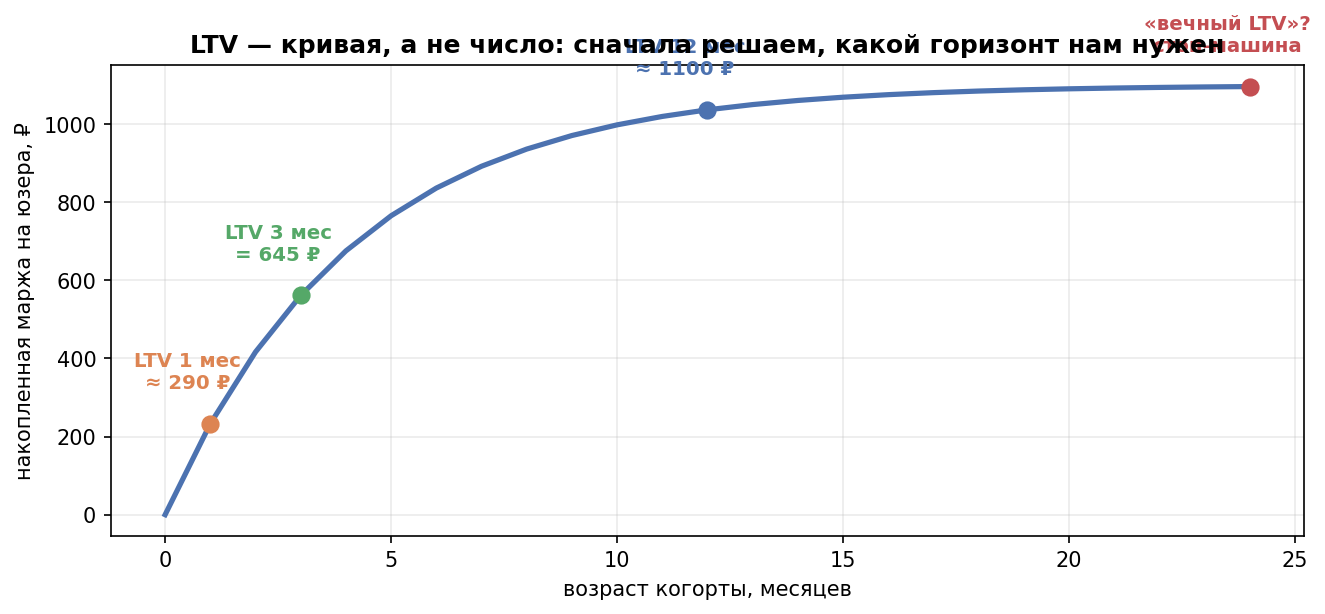
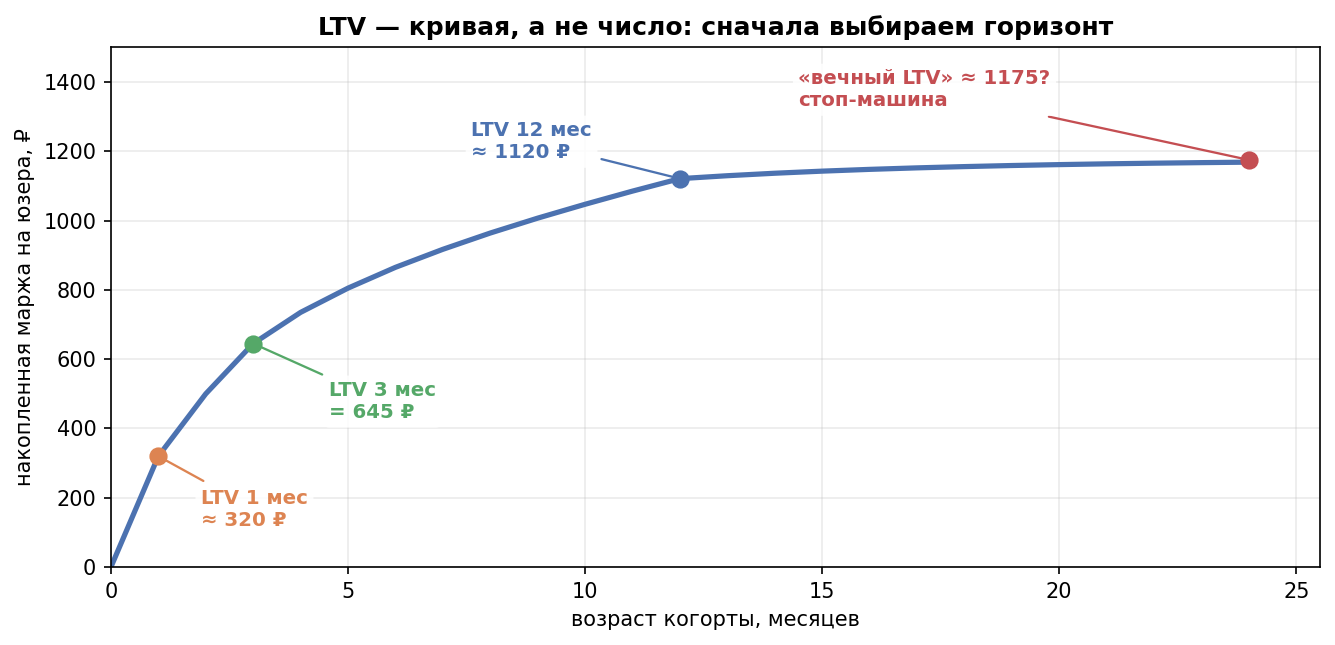
LTV-визуализации v2: устранены наложения текстов (белые плашки, выноски, явные лимиты), лестница методов перевёрнута правильно; формулы в рассказе вынесены в отдельные math-блоки

diff --git a/Драфт/маркетинговая-аналитика/course/modules/M2/make_ltv_story_visuals.py b/Драфт/маркетинговая-аналитика/course/modules/M2/make_ltv_story_visuals.py
@@ -3,6 +3,11 @@
 
 Запуск: python3 course/modules/M2/make_ltv_story_visuals.py → images/ltv_story_*.png
 Стиль курса: заголовок = вывод; числа согласованы с рассказом.
+
+Канон чисел (одинаков во всех картинках и в рассказе):
+  маржа когорты по мес, тыс ₽: 320,180,145,90,70,60,52,47,43,40,38,36 (когорта 1000 чел)
+  LTV(N), ₽/юзер: 320,500,645,735,805,865,917,964,1007,1047,1085,1121
+  «вечный» хвост к 24 мес ≈ 1175; прогноз бутстрапом 12 мес = 1080 ± 90
 """
 from __future__ import annotations
 import matplotlib
@@ -22,79 +27,97 @@ plt.rcParams.update({
 })
 C_MAIN, C_ACC, C_TRUE, C_BAD = "#4C72B0", "#DD8452", "#55A868", "#C44E52"
 
+# белая плашка под любой подписью, лежащей поверх сетки/кривых
+BB = dict(boxstyle="round,pad=0.28", fc="white", ec="none", alpha=0.88)
+
 def save(fig, name):
     fig.savefig(OUT / name, bbox_inches="tight")
     print("ok", name)
 
+# --- канонические числа рассказа -------------------------------------------
+profit_m = np.array([320, 180, 145, 90, 70, 60, 52, 47, 43, 40, 38, 36])  # тыс ₽ маржи когорты
+N_COHORT = 1000
+ltv_cum = np.cumsum(profit_m) / N_COHORT * 1000          # ₽/юзер: 320..1121
+ltv_m = np.concatenate([[0], ltv_cum,
+                        ltv_cum[-1] + 55 * (1 - np.exp(-np.arange(1, 13) / 6))])
+months = np.arange(0, 25)                                # мес 0..24, «вечный» хвост ≈ 1175
+
 # ============================================================
 # 1. Маржа, а не выручка (кейс Dropbox)
 # ============================================================
-fig, axes = plt.subplots(1, 2, figsize=(10, 4))
+fig, axes = plt.subplots(1, 2, figsize=(11, 4.2))
 a = axes[0]
 a.bar(["Выручка", "Переменные\nзатраты", "Валовая\nмаржа"], [100, 67, 33],
       color=[C_MAIN, C_BAD, C_TRUE], width=0.62)
 for i, v in enumerate([100, 67, 33]):
-    a.text(i, v + 2, f"{v}%", ha="center", fontweight="bold", fontsize=11)
-a.set_ylim(0, 112); a.set_ylabel("% от выручки")
-a.set_title("Dropbox, 2015: 67% выручки съедали переменные затраты")
+    a.text(i, v + 3, f"{v}%", ha="center", fontweight="bold", fontsize=11)
+a.set_ylim(0, 120); a.set_yticks(range(0, 101, 20)); a.set_ylabel("% от выручки")
+a.set_title("Dropbox, 2015: 67% выручки — переменные затраты")
 b = axes[1]
 b.bar(["Выручка", "Маржа 25%"], [1200, 300], color=[C_MAIN, C_TRUE], width=0.5)
 for i, v in enumerate([1200, 300]):
-    b.text(i, v + 25, f"{v} ₽", ha="center", fontweight="bold", fontsize=11)
-b.set_ylabel("₽ на заказ («ЕдаДома»)")
-b.set_title("LTV считают от маржи — выручка врёт в 4 раза")
+    b.text(i, v + 30, f"{v} ₽", ha="center", fontweight="bold", fontsize=11)
+b.set_ylim(0, 1400); b.set_yticks(range(0, 1401, 200)); b.set_ylabel("₽ на заказ («ЕдаДома»)")
+b.set_title("Наш пример: маржа 25% — LTV считают от неё")
 fig.tight_layout(); save(fig, "ltv_story_01_margin.png")
 
 # ============================================================
 # 2. LTV — кривая, а не число
 # ============================================================
-months = np.arange(0, 25)
-ltv = 1100 * (1 - np.exp(-months / 4.2))
-fig, ax = plt.subplots(figsize=(9, 4.2))
-ax.plot(months, ltv, lw=2.5, color=C_MAIN)
-for m, label, c in [(1, "LTV 1 мес\n≈ 290 ₽", C_ACC), (3, "LTV 3 мес\n= 645 ₽", C_TRUE),
-                    (12, "LTV 12 мес\n≈ 1100 ₽", C_MAIN), (24, "«вечный LTV»?\nстоп-машина", C_BAD)]:
-    ax.scatter([m], [ltv[m]], s=60, color=c, zorder=5)
-    ax.annotate(label, (m, ltv[m]), xytext=(m - 0.5, ltv[m] + 90), fontsize=9.5,
-                color=c, fontweight="bold", ha="center")
+fig, ax = plt.subplots(figsize=(9, 4.4))
+ax.plot(months, ltv_m, lw=2.5, color=C_MAIN)
+pts = [(1, 320, "LTV 1 мес\n≈ 320 ₽", C_ACC, (1.9, 120)),
+       (3, 645, "LTV 3 мес\n= 645 ₽", C_TRUE, (4.6, 430)),
+       (12, 1121, "LTV 12 мес\n≈ 1120 ₽", C_MAIN, (7.6, 1180)),
+       (24, 1175, "«вечный LTV» ≈ 1175?\nстоп-машина", C_BAD, (14.5, 1330))]
+for m, v, label, c, (tx, ty) in pts:
+    ax.scatter([m], [v], s=60, color=c, zorder=5)
+    ax.annotate(label, xy=(m, v), xytext=(tx, ty), fontsize=9.5, color=c,
+                fontweight="bold", ha="left", bbox=BB,
+                arrowprops=dict(arrowstyle="-", color=c, lw=1.1, shrinkB=4))
+ax.set_xlim(0, 25.5); ax.set_ylim(0, 1500)
 ax.set_xlabel("возраст когорты, месяцев"); ax.set_ylabel("накопленная маржа на юзера, ₽")
-ax.set_title("LTV — кривая, а не число: сначала решаем, какой горизонт нам нужен")
+ax.set_title("LTV — кривая, а не число: сначала выбираем горизонт")
 fig.tight_layout(); save(fig, "ltv_story_02_curve.png")
 
 # ============================================================
 # 3. Почему lifetime — «мифический»
 # ============================================================
-fig, axes = plt.subplots(1, 2, figsize=(10.5, 4))
+fig, axes = plt.subplots(1, 2, figsize=(11, 4.2))
 a = axes[0]
 m = np.arange(0, 13)
 ret = 0.42 * np.exp(-m / 1.8) + 0.22
 a.plot(m, ret * 100, lw=2.5, color=C_MAIN)
 a.fill_between(m, ret * 100, alpha=0.15, color=C_MAIN)
 a.axvline(6, color=C_BAD, ls="--", lw=1.6)
-a.text(6.2, 34, "где резать\nплощадь?", color=C_BAD, fontsize=10, fontweight="bold")
+a.text(5.6, 41, "где резать\nплощадь?", color=C_BAD, fontsize=10,
+       fontweight="bold", ha="right", bbox=BB)
+a.set_xlim(0, 12.6); a.set_ylim(0, 70)
 a.set_xlabel("месяц жизни"); a.set_ylabel("retention, %")
-a.set_title("Площадь под retention: у кривой плато — где её кончать?")
+a.set_title("Площадь под retention: где обрывать кривую?")
 b = axes[1]
 ages = ["1-й мес", "3-й мес", "6-й мес", "12-й мес"]
 churn = [35, 22, 12, 5]
 b.bar(ages, churn, color=[C_BAD, C_ACC, C_MAIN, C_TRUE], width=0.6)
 for i, v in enumerate(churn):
-    b.text(i, v + 1, f"{v}%", ha="center", fontweight="bold")
-b.set_ylabel("churn, % в месяц")
-b.set_title("Churn зависит от возраста: 1/churn по «среднему» — мусор на входе")
+    b.text(i, v + 1.2, f"{v}%", ha="center", fontweight="bold")
+b.set_ylim(0, 42); b.set_ylabel("churn, % в месяц")
+b.set_title("Churn зависит от возраста: «средний» — мусор")
 fig.tight_layout(); save(fig, "ltv_story_03_lifetime.png")
 
 # ============================================================
 # 4. Исторический vs когортный
 # ============================================================
-fig, ax = plt.subplots(figsize=(9, 4.4))
+fig, ax = plt.subplots(figsize=(9, 4.6))
 mm = np.arange(0, 13)
-ax.plot(mm, ltv[:13], lw=2.5, color=C_TRUE, label="когорта 12 мес назад (зрелая)")
-ax.plot(mm[:4], ltv[:4], lw=2.5, color=C_ACC, ls="--", label="когорта 3 мес назад (недозревшая)")
-ax.axhline(1400, color=C_BAD, ls=":", lw=2, label="«средний LTV по базе» = 1400 ₽ (старые клиенты)")
+ax.plot(mm, ltv_m[:13], lw=2.5, color=C_TRUE, label="когорта 12 мес назад (зрелая)")
+ax.plot(mm[:4], ltv_m[:4], lw=2.5, color=C_ACC, ls="--", label="когорта 3 мес назад (недозревшая)")
+ax.axhline(1400, color=C_BAD, ls=":", lw=2, label="«средний LTV по базе» = 1400 ₽")
 ax.scatter([3], [645], s=70, color=C_ACC, zorder=5)
-ax.annotate("факт молодого: 645 ₽", (3, 645), xytext=(4.2, 430), fontsize=10,
-            color=C_ACC, fontweight="bold")
+ax.annotate("факт молодого: 645 ₽", xy=(3, 645), xytext=(4.6, 380), fontsize=10,
+            color=C_ACC, fontweight="bold", bbox=BB,
+            arrowprops=dict(arrowstyle="-", color=C_ACC, lw=1.1, shrinkB=4))
+ax.set_xlim(0, 12.6); ax.set_ylim(0, 1750)
 ax.set_xlabel("возраст когорты, месяцев"); ax.set_ylabel("LTV (кумулятивно), ₽")
 ax.set_title("«Средняя по базе» — это вчерашние клиенты: сегодня другие")
 ax.legend(loc="lower right")
@@ -103,53 +126,63 @@ fig.tight_layout(); save(fig, "ltv_story_04_base_vs_cohort.png")
 # ============================================================
 # 5. Когортный метод за 4 шага
 # ============================================================
-fig, axes = plt.subplots(2, 2, figsize=(10.5, 6.4))
-profit_m = np.array([320, 180, 145, 90, 70, 60, 52, 47, 43, 40, 38, 36])  # тыс ₽ маржи когорты (LTV3=645, LTV12≈1120)
-n = 1000
+fig, axes = plt.subplots(2, 2, figsize=(11, 6.8))
+x12 = np.arange(1, 13)
 a = axes[0, 0]
-a.bar(np.arange(1, 13), profit_m, color=C_MAIN)
+a.bar(x12, profit_m, color=C_MAIN)
+a.set_xlim(0.4, 12.6); a.set_xticks(range(2, 13, 2))
+a.set_ylim(0, 350); a.set_yticks(range(0, 351, 50))
 a.set_title("Шаг 1–2. Валовая маржа когорты по месяцам")
 a.set_xlabel("месяц жизни"); a.set_ylabel("маржа, тыс ₽")
 b = axes[0, 1]
 cum = np.cumsum(profit_m)
-b.plot(np.arange(1, 13), cum, lw=2.5, color=C_MAIN)
-b.fill_between(np.arange(1, 13), cum, alpha=0.15, color=C_MAIN)
+b.plot(x12, cum, lw=2.5, color=C_MAIN)
+b.fill_between(x12, cum, alpha=0.15, color=C_MAIN)
+b.set_xlim(0.4, 12.6); b.set_xticks(range(2, 13, 2))
+b.set_ylim(0, 1250); b.set_yticks(range(0, 1201, 200))
 b.set_title("Шаг 3. Кумулятив: месяц N = сумма 0..N")
 b.set_xlabel("месяц жизни"); b.set_ylabel("Σ маржи, тыс ₽")
 c = axes[1, 0]
-c.plot(np.arange(1, 13), cum / n * 1000, lw=2.5, color=C_TRUE)
-c.scatter([3], [cum[2] / n * 1000], s=70, color=C_ACC, zorder=5)
-c.annotate(f"LTV3 = {cum[2]} ₽", xy=(3, cum[2]), xytext=(5.2, cum[2] - 220),
-           color=C_ACC, fontweight="bold", fontsize=10,
-           arrowprops=dict(arrowstyle="->", color=C_ACC, lw=1.5))
+c.plot(x12, cum / N_COHORT * 1000, lw=2.5, color=C_TRUE)
+c.scatter([3], [645], s=70, color=C_ACC, zorder=5)
+c.annotate("LTV3 = 645 ₽", xy=(3, 645), xytext=(5.4, 380),
+           color=C_ACC, fontweight="bold", fontsize=10, bbox=BB,
+           arrowprops=dict(arrowstyle="->", color=C_ACC, lw=1.5, shrinkB=4))
+c.set_xlim(0.4, 12.6); c.set_xticks(range(2, 13, 2))
+c.set_ylim(0, 1250); c.set_yticks(range(0, 1201, 200))
 c.set_title("Шаг 4. Делим на размер когорты → кривая LTV")
 c.set_xlabel("месяц жизни"); c.set_ylabel("LTV, ₽/юзер")
 d = axes[1, 1]
 d.axis("off")
 d.set_title("Правила чтения кривой")
-d.text(0.02, 0.72, "наклон = деньги сейчас", fontsize=12, color=C_MAIN, fontweight="bold")
-d.text(0.02, 0.5, "плато = «ядро» ценности", fontsize=12, color=C_TRUE, fontweight="bold")
-d.text(0.02, 0.28, "срезы по каналам — где польза", fontsize=12, color=C_ACC, fontweight="bold")
-d.text(0.02, 0.08, "цена метода: ждать горизонт", fontsize=12, color=C_BAD, fontweight="bold")
-fig.tight_layout(); save(fig, "ltv_story_05_cohort_steps.png")
+rules = [("наклон = деньги сейчас", C_MAIN, 0.74),
+         ("плато = «ядро» ценности", C_TRUE, 0.55),
+         ("срезы по каналам — где польза", C_ACC, 0.36),
+         ("цена метода: ждать горизонт", C_BAD, 0.17)]
+for text, color, y in rules:
+    d.text(0.03, y, text, fontsize=12, color=color, fontweight="bold", va="center")
+fig.tight_layout(h_pad=2.2); save(fig, "ltv_story_05_cohort_steps.png")
 
 # ============================================================
 # 6. Прогноз-эвристика: пороги
 # ============================================================
-fig, ax = plt.subplots(figsize=(9, 4.4))
+fig, ax = plt.subplots(figsize=(9, 4.6))
 days = np.arange(0, 31)
 def curve(a, b): return 380 * (1 - np.exp(-days / b)) * a
-for i, (mult, b, fate) in enumerate([(0.78, 5, "стоп"), (0.95, 6, "стоп"),
-                                     (1.08, 7, "оставить"), (1.25, 5, "масштабировать"),
-                                     (1.4, 6, "масштабировать")]):
+for mult, b, fate in [(0.78, 5, "стоп"), (0.95, 6, "стоп"),
+                      (1.08, 7, "оставить"), (1.25, 5, "масштабировать"),
+                      (1.4, 6, "масштабировать")]:
     y = curve(mult, b)
     color = C_BAD if fate == "стоп" else (C_TRUE if fate == "масштабировать" else C_MAIN)
     ax.plot(days, y, lw=2, color=color, alpha=0.9)
 ax.axhline(380, color="#333", ls="--", lw=2)
-ax.text(0.5, 400, "порог LTV30 = 380 ₽ (выучен по истории)", fontsize=10.5, fontweight="bold")
-ax.text(16, 300, "кампании ниже порога →\nвыключаем", color=C_BAD, fontsize=10, fontweight="bold")
-ax.text(16, 480, "на уровне или выше →\nоставляем / масштабируем", color=C_TRUE,
-        fontsize=10, fontweight="bold")
+ax.text(29.5, 400, "порог LTV30 = 380 ₽ (выучен по истории)", fontsize=10,
+        fontweight="bold", ha="right", bbox=BB)
+ax.text(8, 105, "кампании ниже порога →\nвыключаем", color=C_BAD, fontsize=10,
+        fontweight="bold", bbox=BB)
+ax.text(5.5, 560, "на уровне или выше →\nоставляем / масштабируем", color=C_TRUE,
+        fontsize=10, fontweight="bold", bbox=BB)
+ax.set_xlim(0, 30); ax.set_ylim(0, 680)
 ax.set_xlabel("дней с запуска кампании"); ax.set_ylabel("LTV кумулятивно, ₽")
 ax.set_title("Эвристика: не ждать год — сравнить с порогом на раннем горизонте")
 fig.tight_layout(); save(fig, "ltv_story_06_thresholds.png")
@@ -157,71 +190,70 @@ fig.tight_layout(); save(fig, "ltv_story_06_thresholds.png")
 # ============================================================
 # 7. Прогноз-модели: бутстрап-хвост и BG/NBD+GG
 # ============================================================
-fig, axes = plt.subplots(1, 2, figsize=(11, 4.4))
+fig, axes = plt.subplots(1, 2, figsize=(12.5, 4.6))
 a = axes[0]
 mm12 = np.arange(0, 13)
-fact = ltv[:4]
-ltv12 = ltv[:13]
-tails = []
-for k in range(200):
-    scale_k = rng.normal(1.0, 0.06)
-    tails.append(ltv12[3] + (ltv12[3:] - ltv12[3]) * scale_k)
-tails = np.array(tails)
+zrel = ltv_m[3:13] - ltv_m[3]                      # прирост зрелой кривой с 3 мес
+tails = np.array([ltv_m[3] + zrel * rng.normal(0.92, 0.115) for _ in range(400)])
 lo, hi = np.percentile(tails, [5, 95], axis=0)
-a.plot(mm12, ltv12, lw=2, color=C_TRUE, label="хвост по зрелым когортам (бутстрап)")
+a.plot(mm12, ltv_m[:13], lw=2, color=C_TRUE, label="хвост по зрелым когортам (бутстрап)")
 a.fill_between(mm12[3:], lo, hi, color=C_TRUE, alpha=0.2, label="90% интервал")
-a.plot(mm12[:4], fact, lw=3, color=C_MAIN, label="факт (3 мес)")
-a.scatter([12], [1080], s=80, color=C_ACC, zorder=5)
-a.annotate("прогноз 12 мес:\n1080 ± 90 ₽", (12, 1080), xytext=(7.6, 700),
-           color=C_ACC, fontweight="bold", fontsize=10)
+a.plot(mm12[:4], ltv_m[:4], lw=3, color=C_MAIN, label="факт (3 мес)")
+a.scatter([12], [1083], s=80, color=C_ACC, zorder=5)
+a.annotate("прогноз 12 мес:\n1080 ± 90 ₽", xy=(12, 1083), xytext=(6.2, 700),
+           color=C_ACC, fontweight="bold", fontsize=10, bbox=BB,
+           arrowprops=dict(arrowstyle="->", color=C_ACC, lw=1.4, shrinkB=5))
+a.set_xlim(0, 12.6); a.set_ylim(0, 1450)
 a.set_xlabel("месяц жизни"); a.set_ylabel("LTV, ₽")
 a.set_title("Бутстрап: недозревшую когорту достраиваем похожими")
 a.legend(loc="lower right", fontsize=9)
 b = axes[1]
 b.axis("off")
-b.set_title("BG/NBD + Gamma-Gamma: для «неконтрактных» (ушёл ≠ наблюдаем)")
+b.set_title("BG/NBD + Gamma-Gamma: неконтрактные продукты")
 boxes = [
-    (0.03, 0.62, "клиент: частота,\nдавность, возраст (F/R/T)", C_MAIN),
-    (0.36, 0.62, "BG/NBD:\nсколько ещё покупок", C_ACC),
+    (0.03, 0.62, "клиент: частота,\nдавность,\nвозраст (F/R/T)", C_MAIN),
+    (0.36, 0.62, "BG/NBD:\nсколько ещё\nпокупок", C_ACC),
     (0.03, 0.18, "чеки клиента", C_MAIN),
     (0.36, 0.18, "Gamma-Gamma:\nсредний чек", C_ACC),
-    (0.72, 0.40, "LTV на горизонт\n(× )", C_TRUE),
+    (0.72, 0.40, "LTV на горизонт\n(F × M)", C_TRUE),
 ]
 for x, y, t, c in boxes:
     b.add_patch(plt.Rectangle((x, y), 0.26, 0.22, fc=c, alpha=0.18, ec=c, lw=2))
     b.text(x + 0.13, y + 0.11, t, ha="center", va="center", fontsize=9.5, fontweight="bold")
 for (x1, y1), (x2, y2) in [((0.29, 0.73), (0.36, 0.73)), ((0.29, 0.29), (0.36, 0.29)),
-                           ((0.62, 0.73), (0.78, 0.62)), ((0.62, 0.29), (0.78, 0.40))]:
+                           ((0.62, 0.73), (0.78, 0.62)), ((0.62, 0.29), (0.78, 0.46))]:
     b.annotate("", xy=(x2, y2), xytext=(x1, y1),
                arrowprops=dict(arrowstyle="-|>", lw=2, color="#333"))
-b.text(0.5, 0.02, "лимит: предпосылки + валидация на когортах с известным фактом",
-        ha="center", fontsize=9.5, color=C_BAD, fontweight="bold")
+b.text(0.5, 0.04, "лимит: предпосылки + валидация на когортах с известным фактом",
+       ha="center", fontsize=9.5, color=C_BAD, fontweight="bold")
 fig.tight_layout(); save(fig, "ltv_story_07_models.png")
 
 # ============================================================
-# 8. Лестница методов
+# 8. Лесница методов
 # ============================================================
 fig, ax = plt.subplots(figsize=(10, 5))
 ax.axis("off")
 steps = [
-    ("5. Модель", "бутстрап / BG/NBD / ML", "невалидированная\nмодель", C_TRUE),
-    ("4. Эвристика", "пороги LTV7/LTV30", "порог из другой\nэпохи", "#8FBF9F"),
+    ("1. Салфетка", "ARPU × Lifetime", "цена ошибки: бюджеты на мусоре", "#B9C4D6"),
+    ("2. Исторический", "Σ фактов клиента", "LTV старых о новых", "#7C93B8"),
     ("3. Когортный факт", "кумулятив маржи / размер", "ждать горизонт", C_MAIN),
-    ("2. Исторический", "Σ фактов клиента", "LTV старых\nо новых", "#7C93B8"),
-    ("1. Салфетка", "ARPU × Lifetime", "бюджеты на мусоре", "#B9C4D6"),
+    ("4. Эвристика", "пороги LTV7/LTV30", "порог из другой эпохи", "#8FBF9F"),
+    ("5. Модель", "бутстрап, BG/NBD, ML", "невалидированная модель", C_TRUE),
 ]
+right_edges = []
 for i, (name, how, cost, c) in enumerate(steps):
-    y = 0.06 + i * 0.18
-    w = 0.24 + i * 0.135
+    y = 0.07 + i * 0.18
+    w = 0.78 - i * 0.12          # пирамида: внизу широкая «салфетка», наверху узкая «модель»
+    right_edges.append(0.04 + w)
     ax.add_patch(plt.Rectangle((0.04, y), w, 0.15, fc=c, alpha=0.85, ec="white", lw=2))
     ax.text(0.07, y + 0.095, name, fontsize=13, fontweight="bold", color="white", va="center")
     ax.text(0.07, y + 0.038, how, fontsize=9.5, color="white", va="center")
-    ax.text(0.06 + w + 0.02, y + 0.075, f"цена ошибки: {cost}", fontsize=9.5,
-            color="#333", va="center")
-ax.annotate("", xy=(0.86, 0.95), xytext=(0.5, 0.5),
+    ax.text(0.06 + w + 0.02, y + 0.075, cost, fontsize=9.5, color="#333", va="center")
+# стрелка «выше — точнее»: вертикально справа от пирамиды, мимо всех ступеней
+ax.annotate("", xy=(0.92, 0.90), xytext=(0.92, 0.20),
             arrowprops=dict(arrowstyle="-|>", lw=2.5, color=C_ACC))
-ax.text(0.64, 0.86, "точность ↑ · сложность ↑ · терпение ↓", rotation=0, fontsize=10.5,
-        color=C_ACC, fontweight="bold")
+ax.text(0.92, 0.965, "точность ↑ · сложность ↑ · терпение ↓", fontsize=10.5,
+        color=C_ACC, fontweight="bold", ha="center")
 ax.set_xlim(0, 1.05); ax.set_ylim(0, 1.02)
 ax.set_title("Лестница методов LTV: чем выше — тем точнее и дороже")
 fig.tight_layout(); save(fig, "ltv_story_08_ladder.png")
@@ -229,17 +261,17 @@ fig.tight_layout(); save(fig, "ltv_story_08_ladder.png")
 # ============================================================
 # 9. Три вопроса к любому числу LTV
 # ============================================================
-fig, ax = plt.subplots(figsize=(10, 3.6))
+fig, ax = plt.subplots(figsize=(10, 3.8))
 ax.axis("off")
-qs = [("«От маржи или от выручки?»", C_TRUE),
-      ("«Какой горизонт и какие когорты?»", C_MAIN),
-      ("«Факт или прогноз? Как валидирован?»", C_ACC)]
+qs = [("«От маржи\nили от выручки?»", C_TRUE),
+      ("«Какой горизонт\nи какие когорты?»", C_MAIN),
+      ("«Факт или прогноз?\nКак валидирован?»", C_ACC)]
 for i, (q, c) in enumerate(qs):
     x = 0.02 + i * 0.33
-    ax.add_patch(plt.Rectangle((x, 0.18), 0.30, 0.55, fc=c, alpha=0.15, ec=c, lw=2.5))
-    ax.text(x + 0.15, 0.45, q, ha="center", va="center", fontsize=12.5, fontweight="bold", wrap=True)
-    ax.text(x + 0.15, 0.85, f"вопрос {i + 1}", ha="center", fontsize=10, color=c, fontweight="bold")
-ax.text(0.5, 0.03, "нет ответов — число можно не слушать", ha="center",
+    ax.add_patch(plt.Rectangle((x, 0.16), 0.30, 0.60, fc=c, alpha=0.15, ec=c, lw=2.5))
+    ax.text(x + 0.15, 0.46, q, ha="center", va="center", fontsize=12, fontweight="bold")
+    ax.text(x + 0.15, 0.86, f"вопрос {i + 1}", ha="center", fontsize=10, color=c, fontweight="bold")
+ax.text(0.5, 0.04, "нет ответов — число можно не слушать", ha="center",
         fontsize=11, color=C_BAD, fontweight="bold")
 ax.set_xlim(0, 1); ax.set_ylim(0, 1)
 ax.set_title("Три вопроса к любому числу LTV")
